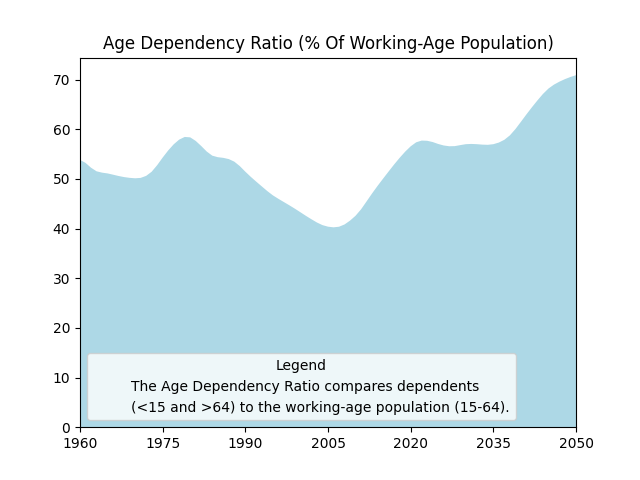
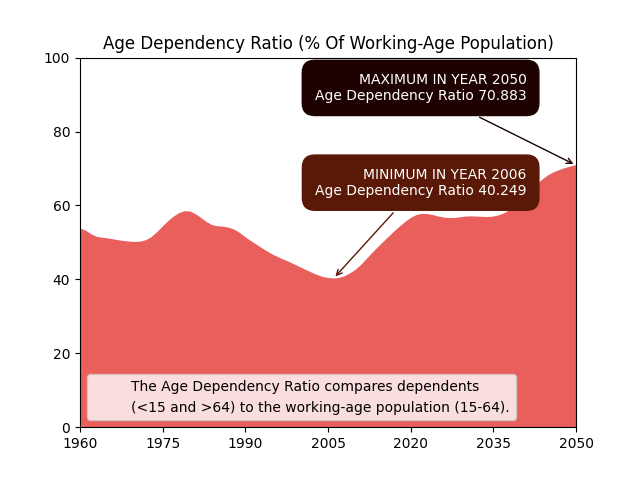
Min Max added - function + visualisation

diff --git a/population.py b/population.py
@@ -2,7 +2,119 @@
 import pandas as pd                             # Import pandas library for data manipulation
 import os.path                                  # Import for file path manipulation
 import matplotlib.pyplot as plt                 # Import matplotlib for plotting
-from matplotlib.patches import Rectangle        # import Rectangle for legend and description
+from matplotlib.patches import Rectangle        # Import Rectangle for legend and description
+import numpy as np                              # Import numpy for numerical operations
+
+def annot_max(x,y, color, textcolor, ax=None):
+    """
+    Annotates the maximum value in a data array (`y`) value on a Matplotlib plot (`ax`).
+
+    Parameters:
+        x (numpy.ndarray): The x-axis data array (e.g., years).
+        y (numpy.ndarray): The y-axis data array (corresponding values).
+        color (str): The color for the annotation box and arrow.
+        textcolor (str): The color for the annotation text.
+        ax (matplotlib.axes._axes.Axes, optional): The Matplotlib axes object for the plot.
+            If not provided, the current axes (plt.gca()) is used.
+
+    Returns:
+        None
+    """
+    # Find the index of the maximum value in y
+    xmax = x[np.argmax(y)]
+
+    # Extract the maximum value from y
+    ymax = y.max()
+
+    # Format the annotation text including the year with the maximum value
+    # and the corresponding age dependency ratio
+    text= "MAXIMUM IN YEAR {}\nAge Dependency Ratio {:.3f}".format(xmax, ymax)
+
+    # Check if an axes object (ax) is provided. If not, retrieve the current axes.
+    if not ax:
+        ax=plt.gca()
+    
+    # Define properties for the annotation box and arrow
+    bbox_props = dict(color=color, boxstyle="round,pad=0.9")
+    arrowprops=dict(color=color, arrowstyle="->")
+
+    # Set up keyword arguments for the annotation
+    kw = dict(color=textcolor, 
+              xycoords='data',
+              textcoords="axes fraction",
+              arrowprops=arrowprops,
+              bbox=bbox_props,
+              ha="right",
+              va="top")
+    
+    # Calculate the y-text position based on the maximum value (ymax)
+    ytext = ymax/100 + 0.25
+
+    # Adjust the horizontal text position (xytext) based on the year (xmax)
+    if int(xmax) > 1990:
+        xytext = (0.9, ytext)  # Place text at the right side for better readability
+    else:
+        xytext = (0.5, ytext)  # Center the text for years before 1991
+
+    # Add the annotation with text and an arrow pointing to the maximum data point
+    ax.annotate(text, xy=(xmax, ymax), xytext=xytext, **kw)
+
+
+def annot_min(x,y, color, textcolor, ax=None):
+    """
+    Annotates the minimum value in a data array (`y`) on a Matplotlib plot (`ax`).
+
+    Parameters:
+        x (numpy.ndarray): The x-axis data array (e.g., years).
+        y (numpy.ndarray): The y-axis data array (corresponding values).
+        color (str): The color for the annotation box and arrow.
+        textcolor (str): The color for the annotation text.
+        ax (matplotlib.axes._axes.Axes, optional): The Matplotlib axes object for the plot.
+            If not provided, the current axes (plt.gca()) is used.
+
+    Returns:
+        None
+    """
+
+    # Find the index of the minimum value in y
+    xmin = x[np.argmin(y)]
+
+    # Extract the minimum value from y
+    ymin = y.min()
+
+    # Format the annotation text including the year with the minimum value
+    # and the corresponding age dependency ratio
+    text= "MINIMUM IN YEAR {}\nAge Dependency Ratio {:.3f}".format(xmin, ymin)
+
+    # Check if an axes object (ax) is provided. If not, retrieve the current axes.
+    if not ax:
+        ax=plt.gca()
+
+    # Define properties for the annotation box and arrow
+    bbox_props = dict(color=color, boxstyle="round,pad=0.9")
+    arrowprops=dict(color=color, arrowstyle="->")
+
+    # Set up keyword arguments for the annotation
+    kw = dict(color=textcolor,
+              xycoords='data',
+              textcoords="axes fraction",
+              arrowprops=arrowprops,
+              bbox=bbox_props,
+              ha="right",
+              va="top")
+    
+    # Calculate the y-text position based on the minimum value (ymin)
+    ytext = ymin/100 + 0.30
+
+    # Adjust the horizontal text position (xytext) based on the year (xmin)
+    if int(xmin) > 2005:
+        xytext = (0.9, ytext)  # Place text at the right side for better readability
+    else:
+        xytext = (0.5, ytext)  # Center the text for years before 2006
+
+    # Add the annotation with text and an arrow pointing to the minimum data point
+    ax.annotate(text, xy=(xmin, ymin), xytext=xytext, **kw)
+
 
 
 def plot_sp_pop_dpnd(df_czechia):
@@ -20,18 +132,22 @@ def plot_sp_pop_dpnd(df_czechia):
 
     # Create the plot
     fig, ax = plt.subplots()
-    ax.stackplot(x_sp_pop_dpnd, y_sp_pop_dpnd, colors=["lightblue"])
+    ax.stackplot(x_sp_pop_dpnd, y_sp_pop_dpnd, colors=["#E85F5C"])
 
     # Set plot limits and labels
     ax.set_xlim(min(x_sp_pop_dpnd), max(x_sp_pop_dpnd))
     ax.set_xticks([min(x_sp_pop_dpnd), '1975', '1990', '2005', '2020', '2035', max(x_sp_pop_dpnd)])
+    ax.set_ylim(0, 100)
     ax.set_title("Age Dependency Ratio (% Of Working-Age Population)")
 
     # Add legend explaining the Age Dependency Ratio (more informative approach)
     text1 = "The Age Dependency Ratio compares dependents"
     text2 = "(<15 and >64) to the working-age population (15-64)."
     extra = Rectangle((0, 0), 1, 1, fc="w", fill=False, edgecolor='none', linewidth=0)
-    plt.legend([extra, extra],[text1, text2], loc='lower left', title='Legend')
+    plt.legend([extra, extra],[text1, text2], loc='lower left')
+
+    annot_max(x_sp_pop_dpnd, y_sp_pop_dpnd, "#1D0200", "white")
+    annot_min(x_sp_pop_dpnd, y_sp_pop_dpnd, "#5A1807", "white")
 
     # Display the plot
     plt.show()
@@ -52,18 +168,23 @@ def plot_sp_pop_dpnd_ol(df_czechia):
 
     # Create the plot
     fig, ax = plt.subplots()
-    ax.stackplot(x_sp_pop_dpnd_ol, y_sp_pop_dpnd_ol, colors=["pink"])
+    ax.stackplot(x_sp_pop_dpnd_ol, y_sp_pop_dpnd_ol, colors=["#932F6D"])
 
     # Set plot limits and labels
     ax.set_xlim(min(x_sp_pop_dpnd_ol), max(x_sp_pop_dpnd_ol))
     ax.set_xticks([min(x_sp_pop_dpnd_ol), '1975', '1990', '2005', '2020', '2035', max(x_sp_pop_dpnd_ol)])
+    ax.set_ylim(0, 100)
     ax.set_title("Age dependency ratio, old")
 
     # Add informative legend using Rectangle for aesthetics
     text1 = "Old-age dependency ratio shows how many people > 64"
     text2 = "rely on every 100 working-age adults (15-64)."
     extra = Rectangle((0, 0), 1, 1, fc="w", fill=False, edgecolor='none', linewidth=0)
-    plt.legend([extra, extra],[text1, text2], loc='lower left', title='Legend')
+    plt.legend([extra, extra],[text1, text2], loc='lower left')
+
+    annot_max(x_sp_pop_dpnd_ol, y_sp_pop_dpnd_ol, "#420039", "white")
+    annot_min(x_sp_pop_dpnd_ol, y_sp_pop_dpnd_ol, "#25171A", "white")
+
 
     # Display the plot
     plt.show()
@@ -84,18 +205,22 @@ def plot_sp_pop_dpnd_yg(df_czechia):
 
     # Create the plot
     fig, ax = plt.subplots()
-    ax.stackplot(x_sp_pop_dpnd_yg, y_sp_pop_dpnd_yg, colors=["lightgreen"])
-
+    ax.stackplot(x_sp_pop_dpnd_yg, y_sp_pop_dpnd_yg, colors=["#7B904B"])
+ 
     # Set plot limits and labels
     ax.set_xlim(min(x_sp_pop_dpnd_yg), max(x_sp_pop_dpnd_yg))
     ax.set_xticks([min(x_sp_pop_dpnd_yg), '1975', '1990', '2005', '2020', '2035', max(x_sp_pop_dpnd_yg)])
+    ax.set_ylim(0, 100)
     ax.set_title("Age dependency ratio, young")
 
     # Add informative legend using Rectangle for aesthetics
     text1 = "Young dependency ratio shows how many < 15"
     text2 = "rely on every 100 working-age adults (15-64)."
     extra = Rectangle((0, 0), 1, 1, fc="w", fill=False, edgecolor='none', linewidth=0)
-    plt.legend([extra, extra],[text1, text2], loc='lower left', title='Legend')
+    plt.legend([extra, extra],[text1, text2], loc='lower left')
+
+    annot_max(x_sp_pop_dpnd_yg, y_sp_pop_dpnd_yg, "#273B09", "white")
+    annot_min(x_sp_pop_dpnd_yg, y_sp_pop_dpnd_yg, "#393E41", "white")
 
     # Display the plot
     plt.show()
